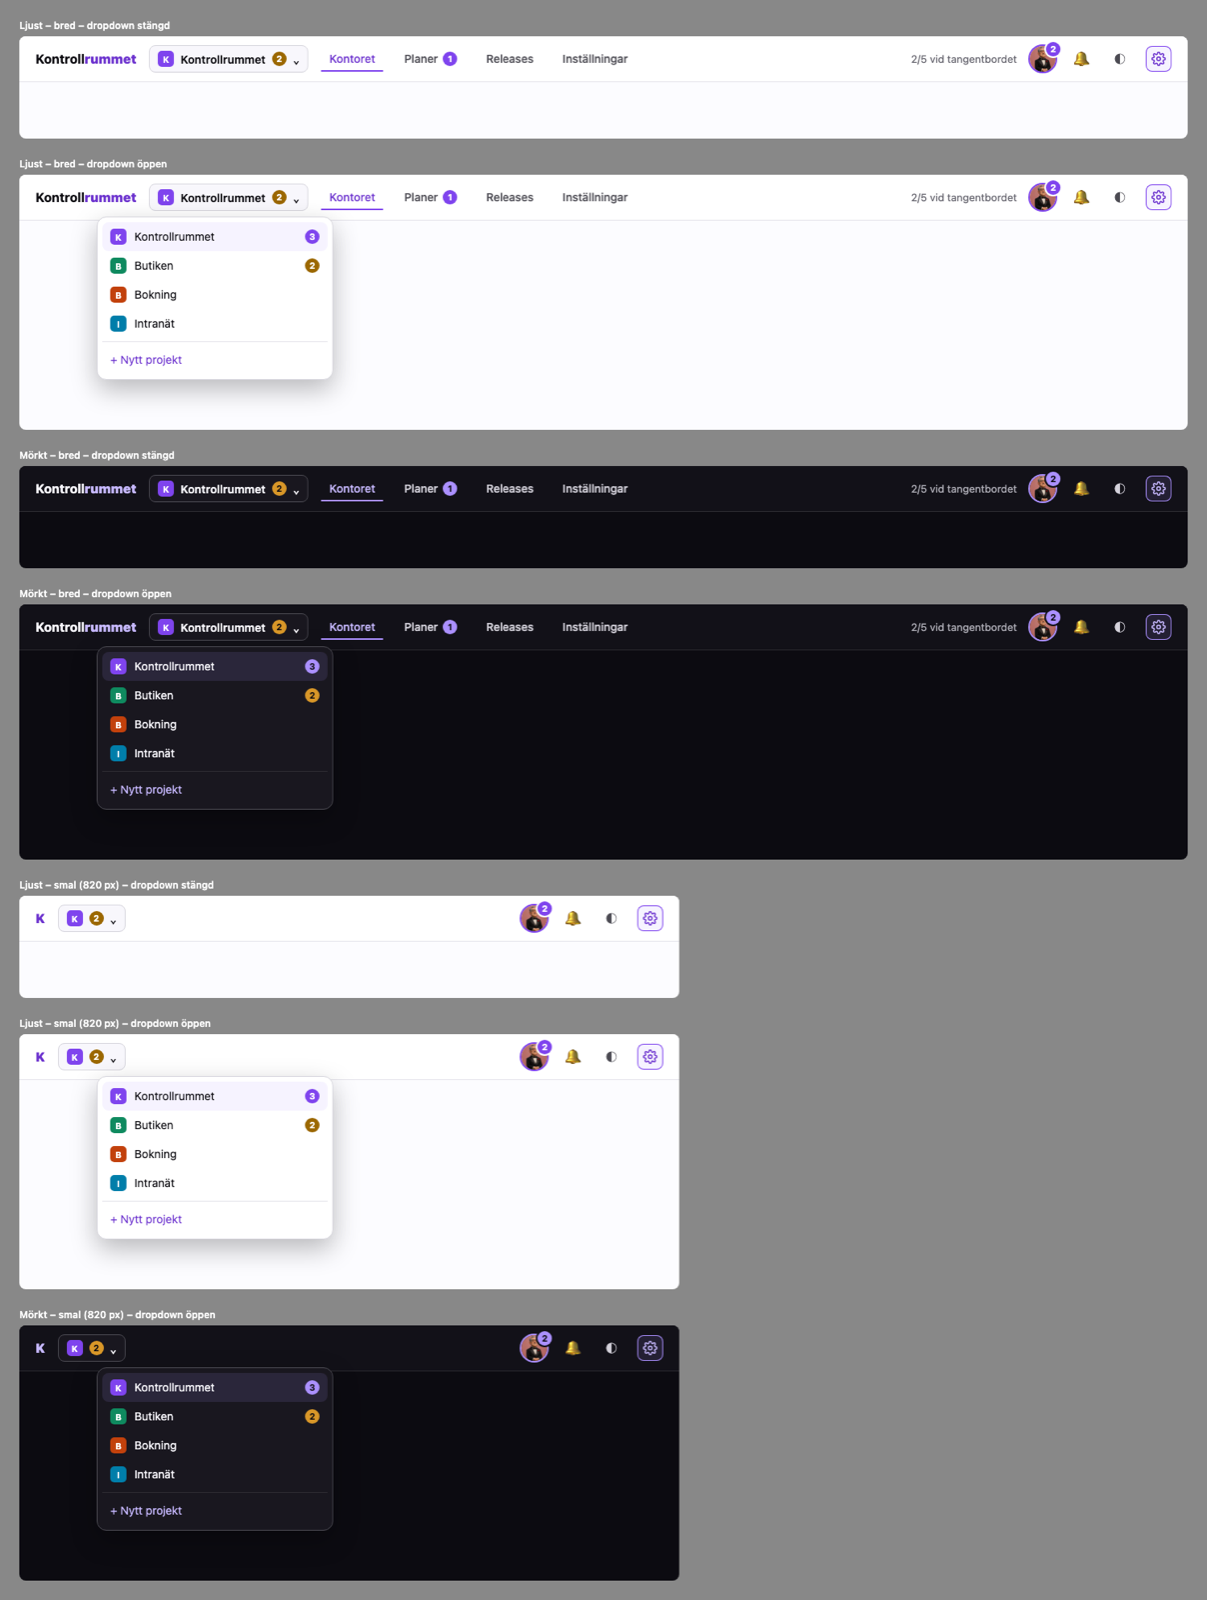
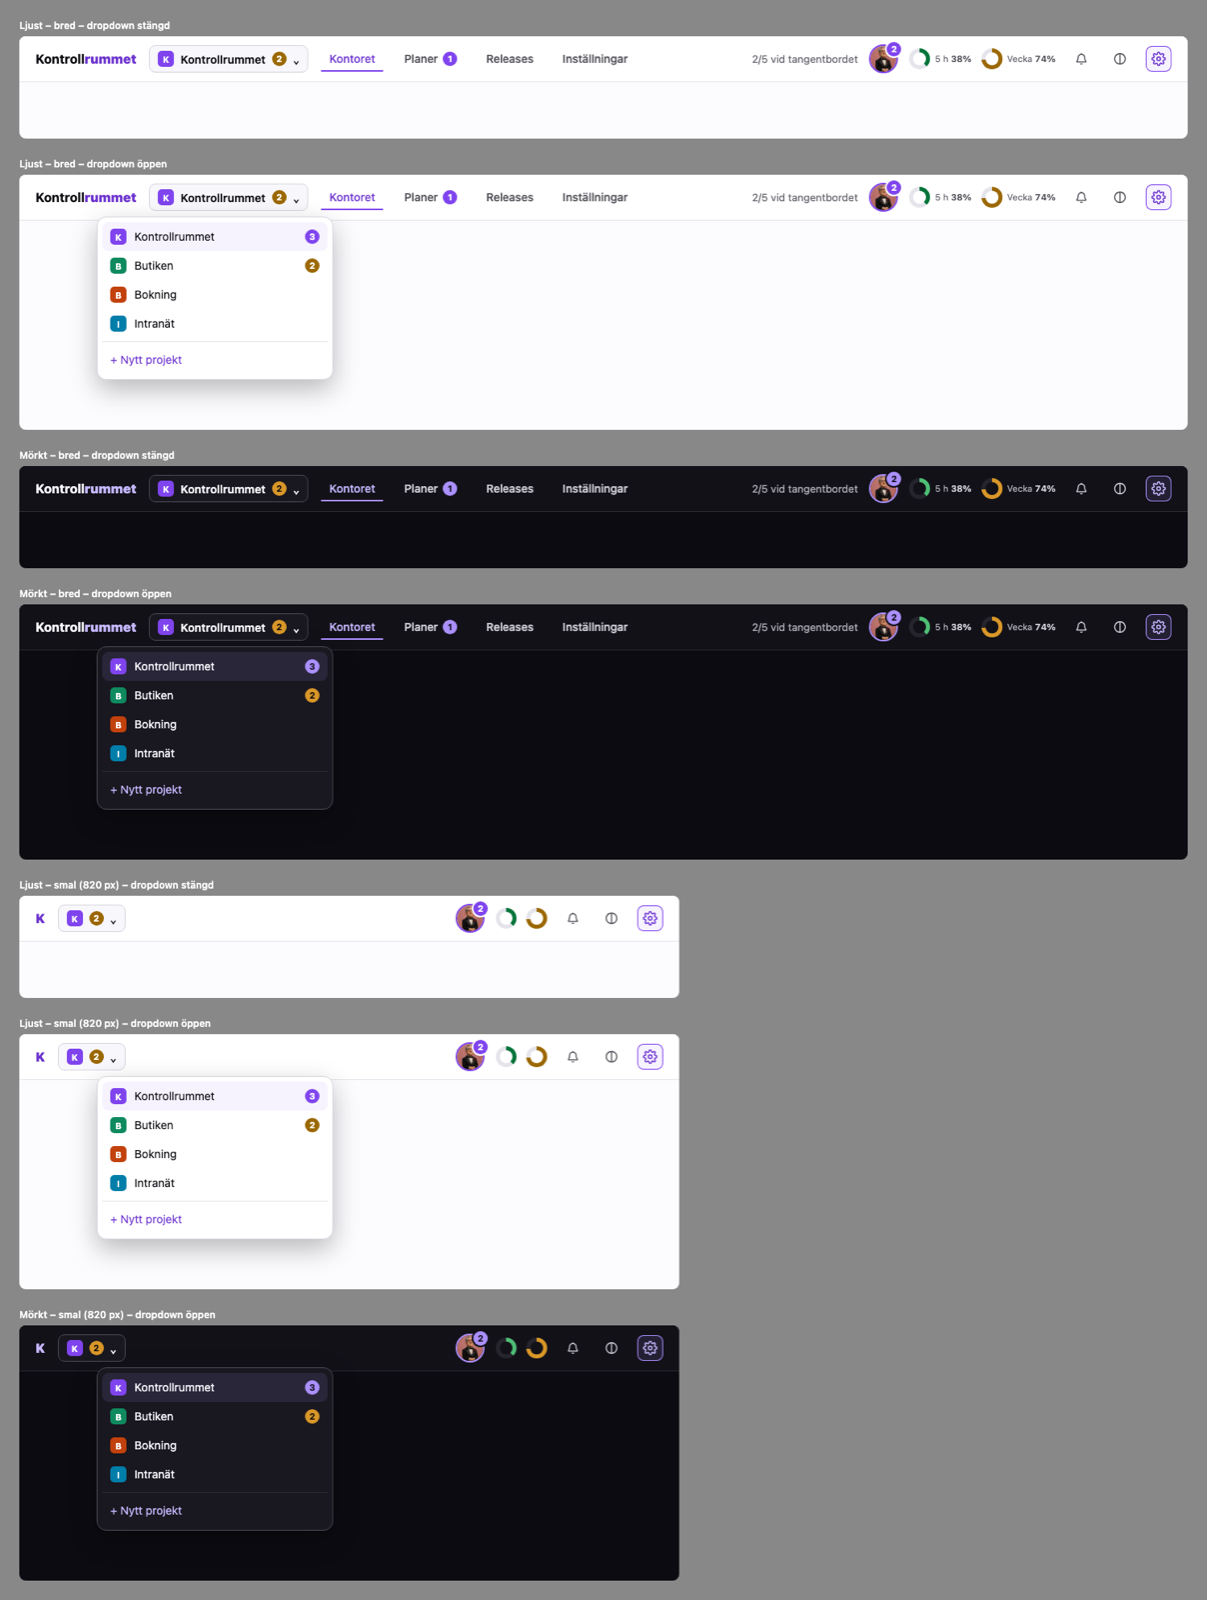
Skiss: behåll användningsmätarna som cirkeldiagram och de riktiga ikonerna

diff --git a/design/toppmeny.html b/design/toppmeny.html
@@ -23,7 +23,7 @@ h2{margin:0 0 6px;font:600 12px system-ui;color:#fff}
 .mi{display:flex;align-items:center;gap:10px;padding:8px 10px;border-radius:8px}
 .mi.sel{background:var(--color-brand-tint)}.mi span.n{flex:1}.mi .cnt{margin-left:auto}
 .mi.new{border-top:1px solid var(--color-line-hairline);border-radius:0 0 8px 8px;margin-top:4px;padding-top:12px;color:var(--color-brand-text)}
-.pad{height:260px}.pad.s{height:70px}
+.us{display:flex;gap:12px;align-items:center}.pie{display:flex;align-items:center;gap:6px;font-size:11px;color:var(--color-fg-tertiary)}.pie i{width:26px;height:26px;border-radius:50%;background:conic-gradient(var(--c) calc(var(--p)*1%),var(--color-surface-4) 0);display:grid;place-items:center}.pie i::after{content:"";width:16px;height:16px;border-radius:50%;background:var(--color-bg-raised)}.pie b{color:var(--color-fg-secondary);font-weight:600;font-variant-numeric:tabular-nums}.pie.mid{--c:var(--color-state-warning)}.pie.hi{--c:var(--color-state-danger)}.pie{--c:var(--color-state-success)}.pad{height:260px}.pad.s{height:70px}
 .narrow{width:820px}
 .dark{color-scheme:dark}
 </style>
@@ -32,6 +32,7 @@ h2{margin:0 0 6px;font:600 12px system-ui;color:#fff}
 const P=[['Kontrollrummet','K','#7f44ee',3],['Butiken','B','#0f8a5f',2],['Bokning','B','#c2410c',0],['Intranät','I','#007eaa',0]];
 const gear='<svg width="18" height="18" viewBox="0 0 24 24" fill="none" stroke="currentColor" stroke-width="2"><circle cx="12" cy="12" r="3"/><path d="M19.4 15a1.7 1.7 0 0 0 .3 1.8l.1.1a2 2 0 1 1-2.8 2.8l-.1-.1a1.7 1.7 0 0 0-1.8-.3 1.7 1.7 0 0 0-1 1.5V21a2 2 0 1 1-4 0v-.1a1.7 1.7 0 0 0-1.1-1.5 1.7 1.7 0 0 0-1.8.3l-.1.1a2 2 0 1 1-2.8-2.8l.1-.1a1.7 1.7 0 0 0 .3-1.8 1.7 1.7 0 0 0-1.5-1H3a2 2 0 1 1 0-4h.1a1.7 1.7 0 0 0 1.5-1.1 1.7 1.7 0 0 0-.3-1.8l-.1-.1a2 2 0 1 1 2.8-2.8l.1.1a1.7 1.7 0 0 0 1.8.3H9a1.7 1.7 0 0 0 1-1.5V3a2 2 0 1 1 4 0v.1a1.7 1.7 0 0 0 1 1.5 1.7 1.7 0 0 0 1.8-.3l.1-.1a2 2 0 1 1 2.8 2.8l-.1.1a1.7 1.7 0 0 0-.3 1.8V9a1.7 1.7 0 0 0 1.5 1H21a2 2 0 1 1 0 4h-.1a1.7 1.7 0 0 0-1.5 1z"/></svg>';
 const logo=(p)=>`<span class="logo" style="background:${p[2]}">${p[1]}</span>`;
+const usage=n=>[["5 h",38,"","återställs 18:40 · om 2 h 10 min"],["Vecka",74,"mid","återställs fre 09:00 · om 2 d"]].map(u=>`<div class="pie ${u[2]}" title="${u[0]}: ${u[1]} procent, ${u[3]}" role="meter" aria-valuenow="${u[1]}"><i style="--p:${u[1]}"></i>${n?"":`<span>${u[0]} <b>${u[1]}%</b></span>`}</div>`).join("");
 function frame(dark,open,narrow){
  const others=P.slice(1).reduce((a,p)=>a+p[3],0);
  const menu=open?`<div class="menu" role="menu">${P.map((p,i)=>`<div class="mi ${i?'':'sel'}">${logo(p)}<span class="n">${p[0]}</span>${p[3]?`<span class="cnt ${i?'other':''}">${p[3]}</span>`:''}</div>`).join('')}<div class="mi new">+ Nytt projekt</div></div>`:'';
@@ -41,7 +42,7 @@ function frame(dark,open,narrow){
  <button class="pbtn" aria-haspopup="menu" aria-expanded="${open}">${logo(P[0])}${narrow?'':'Kontrollrummet'}<span class="cnt other" title="Annat projekt behöver dig">${others}</span>⌄</button>
  ${narrow?'':'<div class="tab on">Kontoret</div><div class="tab">Planer <span class="cnt">1</span></div><div class="tab">Releases</div><div class="tab">Inställningar</div>'}
  <div class="sp"></div>${narrow?'':'<div class="st">2/5 vid tangentbordet</div>'}
- <div class="av on" title="Gudfadern"><span class="cnt">2</span></div><div class="ib">🔔</div><div class="ib">◐</div>
+ <div class="av on" title="Gudfadern"><span class="cnt">2</span></div><div class="us">${usage(narrow)}</div><div class="ib" title="Systemnotiser är på"><svg viewBox="0 0 640 640" width="18" height="18" aria-hidden="true"><path fill="currentColor" d="M320 64C306.7 64 296 74.7 296 88L296 97.7C214.6 109.3 152 179.4 152 264L152 278.5C152 316.2 142 353.2 123 385.8L101.1 423.2C97.8 429 96 435.5 96 442.2C96 463.1 112.9 480 133.8 480L506.2 480C527.1 480 544 463.1 544 442.2C544 435.5 542.2 428.9 538.9 423.2L517 385.7C498 353.1 488 316.1 488 278.4L488 263.9C488 179.3 425.4 109.2 344 97.6L344 87.9C344 74.6 333.3 63.9 320 63.9zM488.4 432L151.5 432L164.4 409.9C187.7 370 200 324.6 200 278.5L200 264C200 197.7 253.7 144 320 144C386.3 144 440 197.7 440 264L440 278.5C440 324.7 452.3 370 475.5 409.9L488.4 432zM252.1 528C262 556 288.7 576 320 576C351.3 576 378 556 387.9 528L252.1 528z"/></svg></div><div class="ib" title="Tema"><svg viewBox="0 0 640 640" width="18" height="18" aria-hidden="true"><path fill="currentColor" d="M344 526.6L344 113.3C447.6 125.3 528 213.2 528 320C528 426.8 447.6 514.7 344 526.6zM296 526.6C192.4 514.7 112 426.8 112 320C112 213.2 192.4 125.3 296 113.4L296 526.7zM320 576C461.4 576 576 461.4 576 320C576 178.6 461.4 64 320 64C178.6 64 64 178.6 64 320C64 461.4 178.6 576 320 576z"/></svg></div>
  <div class="ib on" title="Inställningar för appen" aria-label="Inställningar för appen">${gear}</div></header>
  ${menu}<div class="pad ${open?'':'s'}"></div></div></section>`}
 document.body.insertAdjacentHTML('beforeend',[[0,0,0],[0,1,0],[1,0,0],[1,1,0],[0,0,1],[0,1,1],[1,1,1]].map(a=>frame(...a)).join(''));
